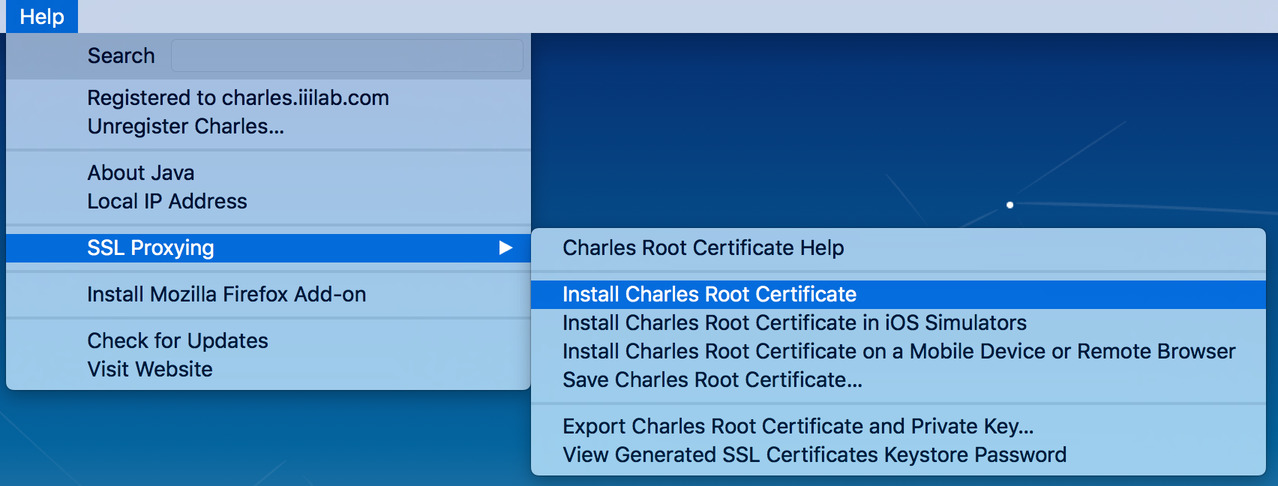
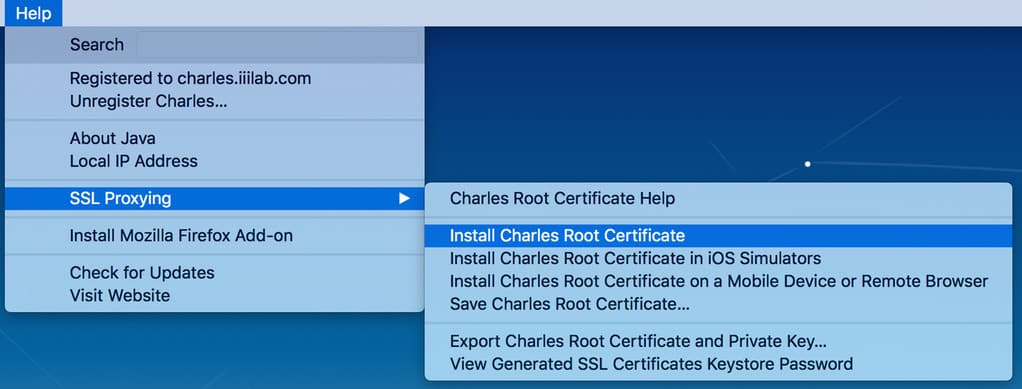
compress images

diff --git a/_posts/2017-07-20-charles-proxy-remote-mapping.md b/_posts/2017-07-20-charles-proxy-remote-mapping.md
@@ -25,15 +25,15 @@ categories: Charles
 
 在 Charles 中启用 SSL Proxy，菜单 Proxy → SSL Proxy Settings。
 
-<img src="/images/2017/07/pic-4-ssl-proxing.png" />
+<img src="/images/2017/07/pic-4-ssl-proxing.jpg" />
 
 点击【Add】，在 Edit Location 对话框里，把 443 端口添加进去。点击OK。
 
-<img src="/images/2017/07/pic-5-443-port.png" />
+<img src="/images/2017/07/pic-5-443-port.jpg" />
 
 
 ## 请求映射
 
 选择 charles 的 Tools —> Map Remote，在弹出的 Map Remote Settings 里面点击【Add】：
 
-<img src="/images/2017/07/pic-6-remote-map.png" />
+<img src="/images/2017/07/pic-6-remote-map.jpg" />
